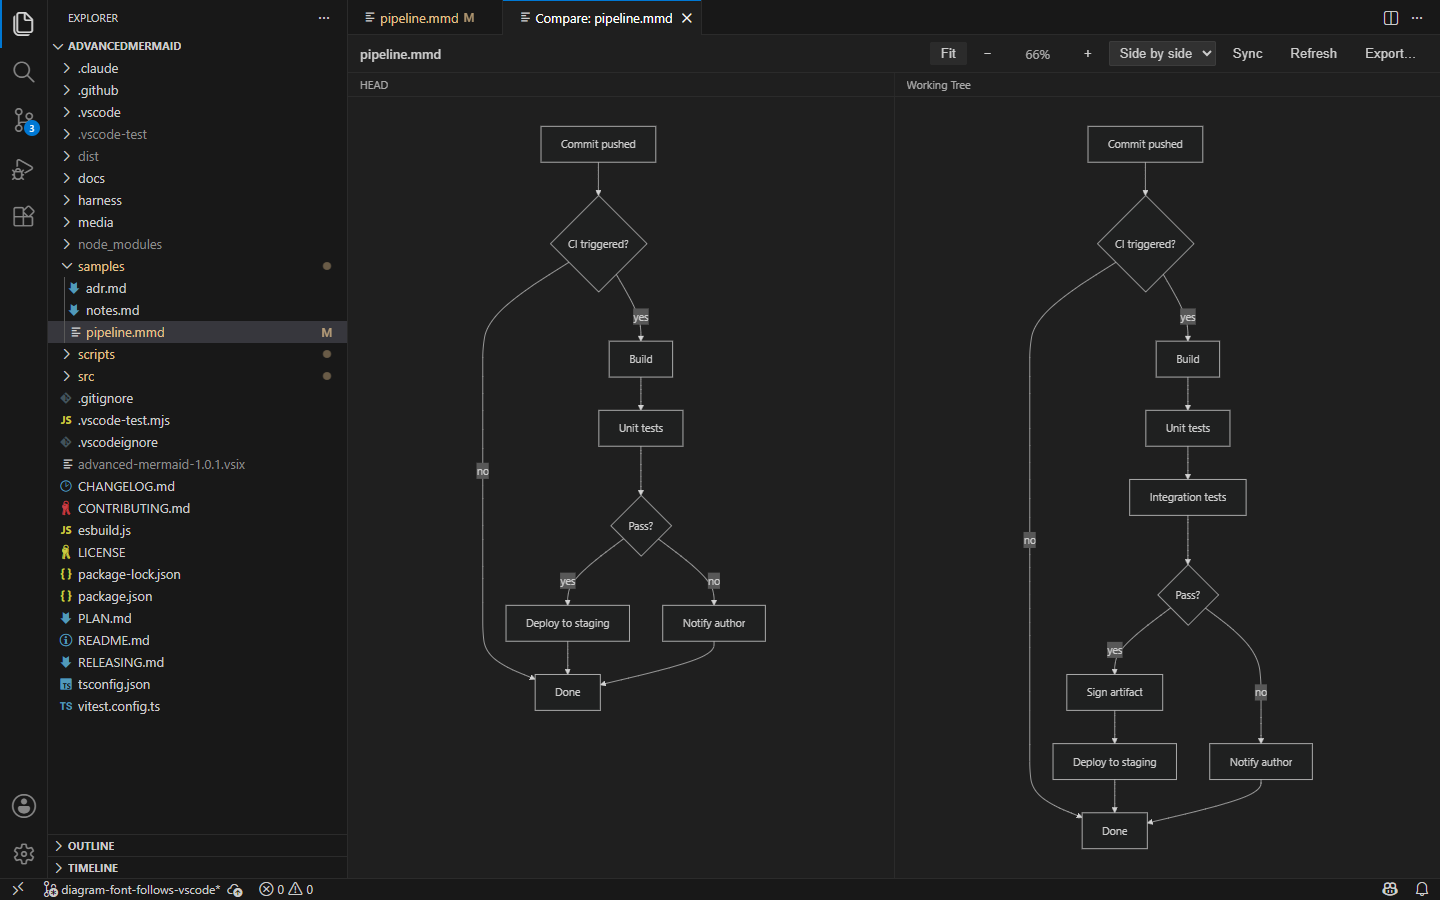
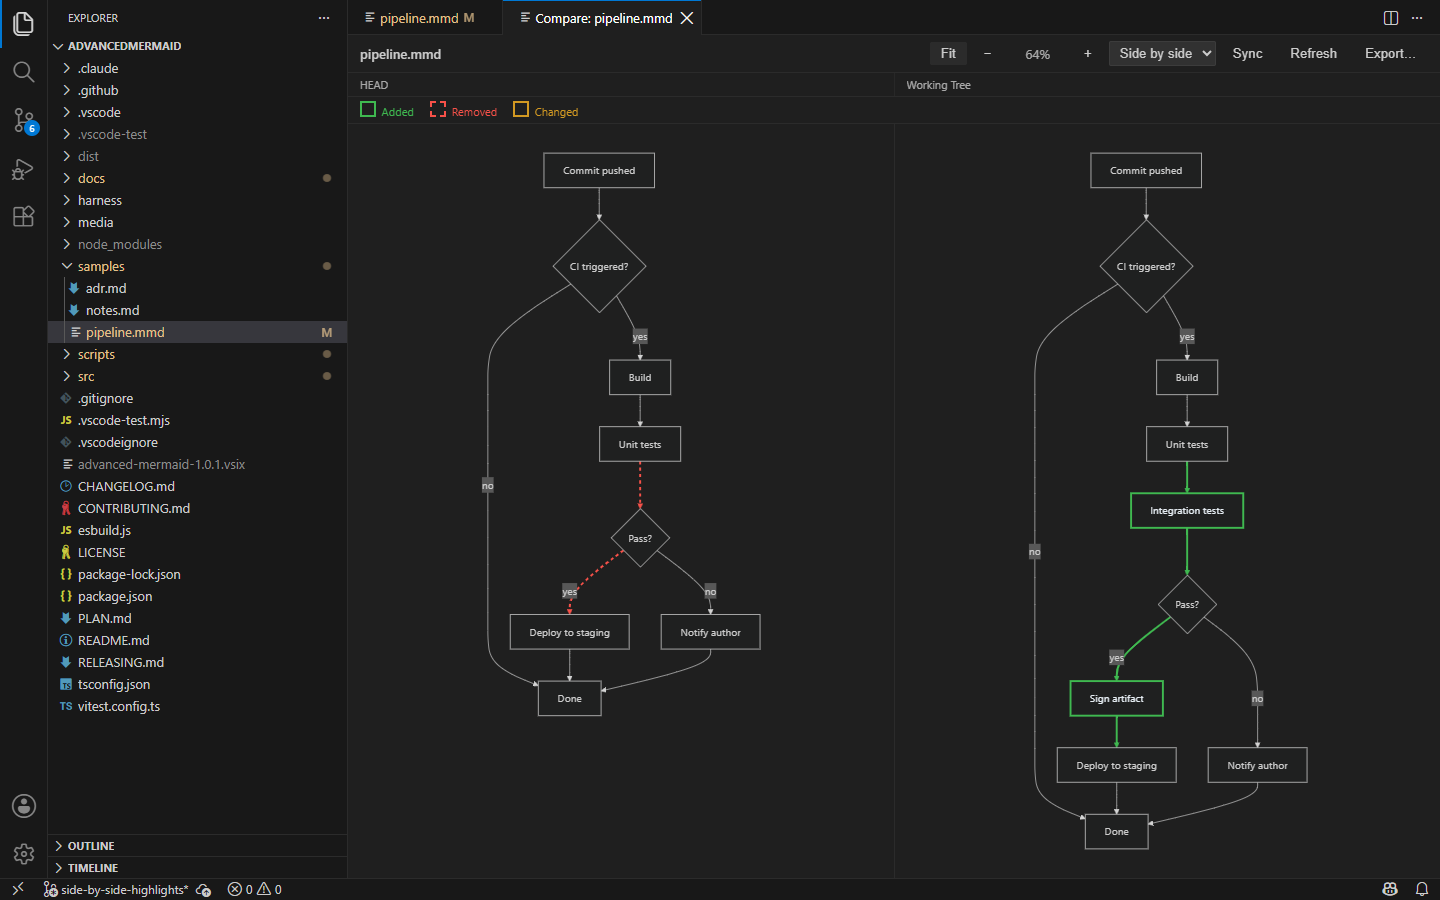
Keep the marks steady while the other side is being typed
Source is invalid most of the time mid-edit, and the diff is decided for the
pair — so an unparseable right-hand edit was stripping the marks off the left
pane and putting them back on the next valid keystroke. The published
live-edit screenshot caught it: a plain left pane beside a right one still
holding its last good marked render.

A pane whose own text hasn't moved now keeps what it has. This is the bargain
the failed-render path already strikes one pane at a time — the badge says the
comparison is stale, and the pane goes on showing the last thing that was true
— applied to the pair, which is the unit the marks are decided over.

The three published screenshots are regenerated from a real VS Code, since
compare.png was still showing the unmarked view this branch replaces.

Claude-Session: https://claude.ai/code/session_0166F3nugCuLaJFmgxZakWnm

diff --git a/src/webview/main.ts b/src/webview/main.ts
@@ -348,6 +348,9 @@ const marksWanted = (): boolean => viewMode.mode === 'sideBySide';
 /** The marked rewrite of each side, or null while the pair can't take marks or doesn't want them. */
 let annotation: AnnotatedPair | null = null;
 
+/** The raw source each pane was last painted from, so a pane nobody touched can be left alone. */
+const paintedRaw: Record<Pane, string | undefined> = { left: undefined, right: undefined };
+
 /** Whether anything is actually marked on screen right now. */
 const marksShowing = (): boolean =>
   marksWanted() && annotation !== null && annotation.kinds.length > 0;
@@ -359,18 +362,31 @@ const marksShowing = (): boolean =>
  * a diffable pair into an undiffable one and back, exactly as it can for the merged diagram.
  */
 async function paintPanes(): Promise<void> {
-  const left = rendered.left ?? '';
-  const right = rendered.right ?? '';
+  const raw: Record<Pane, string> = {
+    left: rendered.left ?? '',
+    right: rendered.right ?? '',
+  };
 
-  annotation =
-    marksWanted() && (await bothParse(left, right))
-      ? annotateDiagrams(left, right, SEMANTIC_COLOURS)
-      : null;
+  const diffable = marksWanted() && (await bothParse(raw.left, raw.right));
+  annotation = diffable ? annotateDiagrams(raw.left, raw.right, SEMANTIC_COLOURS) : null;
 
-  await Promise.all([
-    renderPane('left', annotation?.left ?? left, left),
-    renderPane('right', annotation?.right ?? right, right),
-  ]);
+  await Promise.all(
+    PANES.map(async (pane) => {
+      /*
+       * One side mid-edit means there is no live diff — but stripping the marks off the *other*
+       * pane to say so would make them flicker on every invalid keystroke, and source is invalid
+       * most of the time while typing. A pane whose own text hasn't moved keeps what it has, which
+       * is the same bargain the failed-render path below already strikes: the badge says the
+       * comparison is stale, the pane goes on showing the last thing that was true.
+       */
+      if (!diffable && marksWanted() && hasGoodRender[pane] && paintedRaw[pane] === raw[pane]) {
+        return;
+      }
+
+      paintedRaw[pane] = raw[pane];
+      await renderPane(pane, annotation?.[pane] ?? raw[pane], raw[pane]);
+    }),
+  );
 }
 
 /**

diff --git a/CHANGELOG.md b/CHANGELOG.md
@@ -32,7 +32,9 @@ and this project adheres to [Semantic Versioning](https://semver.org/spec/v2.0.0
   explicitly, and this is on by default.
 - **A half-typed diagram is left alone**, so the error badge still appears. The readers are lenient
   enough to make sense of a partial edit and emit a tidied version of it, which would otherwise
-  render cleanly and quietly show you something you had not written.
+  render cleanly and quietly show you something you had not written. While one side is mid-edit the
+  other keeps the marks it already has rather than dropping them for the duration — source is
+  invalid most of the time while typing, and re-marking on every keystroke would strobe.
 
 ## [2.0.1] — 2026-08-01
 
